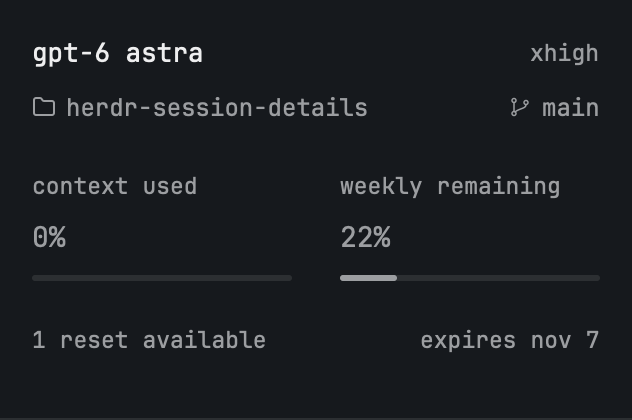
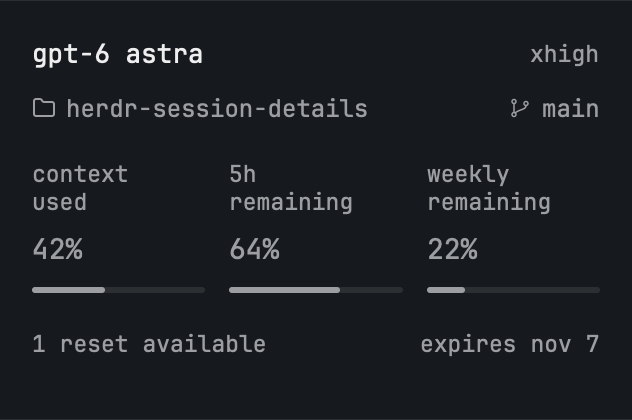
docs: refresh native preview with five-hour quota

diff --git a/README.md b/README.md
@@ -2,7 +2,7 @@
 
 Model, effort and context for your focused [Herdr](https://herdr.dev) terminal, with subscription usage where supported.
 
-<img src="preview.png" width="480" alt="A Pi session showing its model, reasoning effort, folder, branch, context usage, weekly allowance and reset credits in Session Details.">
+<img src="preview.png" width="480" alt="A synthetic session showing its model, reasoning effort, folder, branch, context usage, 5h and weekly allowances, and reset credits in Session Details.">
 
 ## Get started
 

diff --git a/RECIPE.md b/RECIPE.md
@@ -4,6 +4,8 @@ A quiet native Herdr panel that answers: which model is running, where, how full
 
 ![Session Details](preview.png)
 
+The preview is a native panel capture with synthetic session metadata.
+
 ## What you see
 
 A theme-colored panel about 210 logical pixels high, with 16-pixel padding and the current Herdr terminal font. A 13-pixel regular model name sits beside the smaller raw reasoning-effort label, such as `xhigh`. Folder and branch occupy the next muted line, with Herdr's folder and branch icons.
